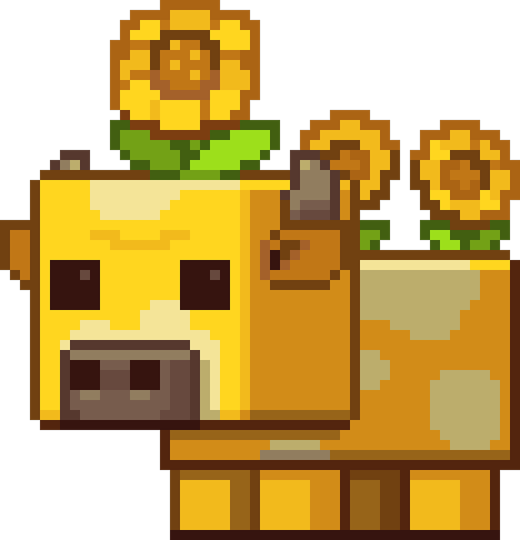
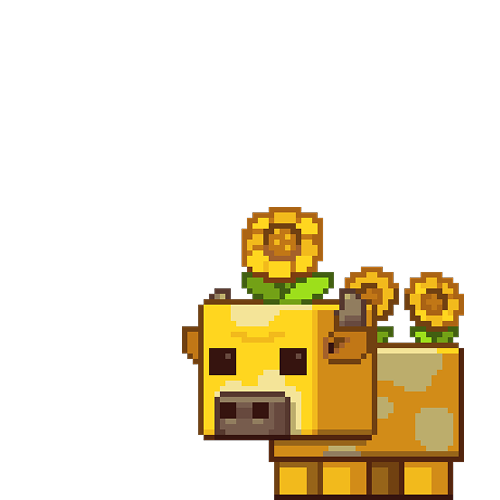
Images optimization

diff --git a/src/components/ui/header/header.tsx b/src/components/ui/header/header.tsx
@@ -9,6 +9,7 @@ import Burger from './burger/burger';
 
 import { linksData, navData, socialsData } from '@/data';
 import { NavData, SocialsData } from '@/types';
+import Image from 'next/image';
 
 export default function Header() {
   const [isOpen, setIsOpen] = useState(false);
@@ -49,7 +50,9 @@ export default function Header() {
             href="/#welcome"
             className={styles.logo}
           >
-            <img
+            <Image
+              width={40}
+              height={40}
               src="/icons/logo.svg"
               alt="Логоип #BoF"
               className={styles.logo__img}
@@ -71,7 +74,9 @@ export default function Header() {
                 <p className={styles.select__title}>
                   Наши ресурсы
                 </p>
-                <img
+                <Image
+                  width={16}
+                  height={16}
                   src="/icons/select.svg"
                   alt="Select Down"
                   className={styles.select__img}
@@ -87,7 +92,9 @@ export default function Header() {
                           href={props.url}
                           className={styles.select__link}
                         >
-                          <img
+                          <Image
+                            width={20}
+                            height={20}
                             src={props.icon}
                             alt={'Иконка' + props.name}
                             className={styles.link__img}

diff --git a/src/components/ui/footer/footer.tsx b/src/components/ui/footer/footer.tsx
@@ -4,13 +4,16 @@ import Link from 'next/link';
 
 import { socialsData } from '@/data';
 import { SocialsData } from '@/types';
+import Image from 'next/image';
 
 export default function Footer() {
   return (
     <footer className={`${styles.footer} container`}>
       <div className={styles.footer__header}>
         <div className={styles.footer__logo}>
-          <img
+          <Image
+            width={40}
+            height={40}
             src="/icons/logo.svg"
             alt=""
             className={styles.logo}
@@ -43,7 +46,9 @@ export default function Footer() {
             return (
               <li key={props.id}>
                 <a href={props.url}>
-                  <img
+                  <Image
+                    width={48}
+                    height={48}
                     src={props.icon}
                     alt={'Иконка' + props.name}
                     className={styles.socials__img}

diff --git a/src/components/sections/about/slider/slider.tsx b/src/components/sections/about/slider/slider.tsx
@@ -3,12 +3,15 @@ import styles from './slider.module.scss';
 import Marquee from 'react-fast-marquee';
 
 import { SliderProps } from '@/types';
+import Image from 'next/image';
 
 export default function Slider(props: SliderProps) {
   return (
     <section className={styles.content}>
       <div className={styles.content__info}>
-        <img
+        <Image
+          width={48}
+          height={48}
           src={props.icon}
           alt="Иконка"
           className={styles.info__icon}
@@ -28,7 +31,9 @@ export default function Slider(props: SliderProps) {
         className={`${styles.slider} container`}
       >
         {props.images.map((image, index) => (
-          <img
+          <Image
+            width={512}
+            height={288}
             key={index}
             src={image}
             alt="Слайд"

diff --git a/src/components/sections/about/info/info.tsx b/src/components/sections/about/info/info.tsx
@@ -1,13 +1,16 @@
 import { InfoDataProps } from '@/types';
 
 import styles from './info.module.scss';
+import Image from 'next/image';
 
 export default function Info(props: InfoDataProps) {
   return (
     <>
       <section className={styles.info}>
         <div className={styles.text}>
-          <img
+          <Image
+            width={48}
+            height={48}
             src={props.icon}
             alt="Иконка"
             className={styles.text__icon}
@@ -25,7 +28,9 @@ export default function Info(props: InfoDataProps) {
           </div>
         </div>
         <div className={styles.image}>
-          <img
+          <Image
+            width={1024}
+            height={1024}
             src={props.image}
             alt="Превью"
             className={styles.image__picture}

diff --git a/src/components/ui/header/burger/burger.tsx b/src/components/ui/header/burger/burger.tsx
@@ -5,6 +5,7 @@ import ButtonDefault from '../../button/default/button';
 import { linksData, navData, socialsData } from '@/data';
 import { NavData, SocialsData } from '@/types';
 import Link from 'next/link';
+import Image from 'next/image';
 
 interface BurgerProps {
   isOpen: boolean;
@@ -44,7 +45,9 @@ export default function Burger({
           {socialsData.map((props: SocialsData) => (
             <li key={props.id}>
               <a href={props.url}>
-                <img
+                <Image
+                  width={32}
+                  height={32}
                   src={props.icon}
                   alt={'Логотип ' + props.name}
                   className={styles.socials__img}

diff --git a/src/components/sections/welcome/welcome.tsx b/src/components/sections/welcome/welcome.tsx
@@ -2,6 +2,7 @@ import styles from './welcome.module.scss';
 
 import ButtonDefault from '@/components/ui/button/default/button';
 import ButtonCopy from '@/components/ui/button/copy/button';
+import Image from 'next/image';
 
 export default function Welcome() {
   return (
@@ -30,8 +31,10 @@ export default function Welcome() {
         </div>
       </div>
       <div className={styles.background}>
-        <img
-          loading="lazy"
+        <Image
+          width={2560}
+          height={1280}
+          priority
           src="/images/bg.webp"
           alt="Задний фон"
           className={styles.background__image}

diff --git a/src/components/sections/subs/sub/sub.tsx b/src/components/sections/subs/sub/sub.tsx
@@ -3,6 +3,7 @@ import styles from './sub.module.scss';
 import ButtonDefault from '@/components/ui/button/default/button';
 
 import { SubProps } from '@/types';
+import Image from 'next/image';
 
 export default function Sub(props: SubProps) {
   return (
@@ -29,7 +30,9 @@ export default function Sub(props: SubProps) {
         <ButtonDefault href={props.url}>
           Приобрести
         </ButtonDefault>
-        <img
+        <Image
+          width={500}
+          height={500}
           src={props.image}
           alt="Маскот"
           className={styles.sub__img}

diff --git a/src/data/index.ts b/src/data/index.ts
@@ -2,7 +2,7 @@ export const linksData = {
   authClear: '',
   authSubSeason: '',
   authSubMounthly: '',
-  mapLink: '',
+  mapLink: 'localhost:8100',
 };
 
 export const navData = [
@@ -66,7 +66,7 @@ export const subData = [
     fetureList: [
       'На данный момент проходит бесплатное бета-тестирование! На релизе доступ на сервер будет платным.',
     ],
-    url: linksData.authSubMounthly,
+    url: linksData.authSubSeason,
     image: '/images/sniffer.webp',
     bg: 'var(--bg-gradient-mounth)',
   },

diff --git a/src/components/ui/button/copy/button.tsx b/src/components/ui/button/copy/button.tsx
@@ -1,5 +1,6 @@
 'use client';
 
+import Image from 'next/image';
 import styles from './button.module.scss';
 
 import { ReactNode, useState } from 'react';
@@ -35,7 +36,12 @@ export default function ButtonCopy({
         styles.button
       }`}
     >
-      <img src="/icons/copy.svg" alt="Копировать" />
+      <Image
+        width={20}
+        height={20}
+        src="/icons/copy.svg"
+        alt="Копировать"
+      />
       {isCopied ? ` IP Скопирован!` : children}
     </button>
   );

diff --git a/src/components/sections/map/map.tsx b/src/components/sections/map/map.tsx
@@ -3,6 +3,7 @@
 import styles from './map.module.scss';
 
 import { useState } from 'react';
+import { linksData } from '@/data';
 
 export default function Map() {
   const [isActive, setIsActive] = useState(false);
@@ -32,7 +33,7 @@ export default function Map() {
           className={`${styles.mapIframe} ${
             isActive ? styles.isActive : ''
           }`}
-          src="http://localhost:8100"
+          src={linksData.mapLink}
           allowFullScreen
         />
       </div>

diff --git a/src/app/not-found.tsx b/src/app/not-found.tsx
@@ -1,3 +1,4 @@
+import Image from 'next/image';
 import styles from './styles/not-found.module.scss';
 
 export default function NotFound() {
@@ -11,7 +12,9 @@ export default function NotFound() {
           Не найдено. =(
         </span>
       </div>
-      <img
+      <Image
+        width={240}
+        height={240}
         className={styles.error__img}
         src="/images/sniffer.webp"
         alt=""

diff --git a/src/components/sections/about/slider/slider.module.scss b/src/components/sections/about/slider/slider.module.scss
@@ -18,6 +18,7 @@
   &__icon {
     max-width: 2rem;
     width: 100%;
+    height: auto;
     @media (max-width: 767px) {
       display: none;
     }
@@ -76,6 +77,7 @@
   }
   &__slide {
     width: 25vw;
+    height: auto;
 
     border-radius: 0.75rem;
     margin-left: 1rem;
